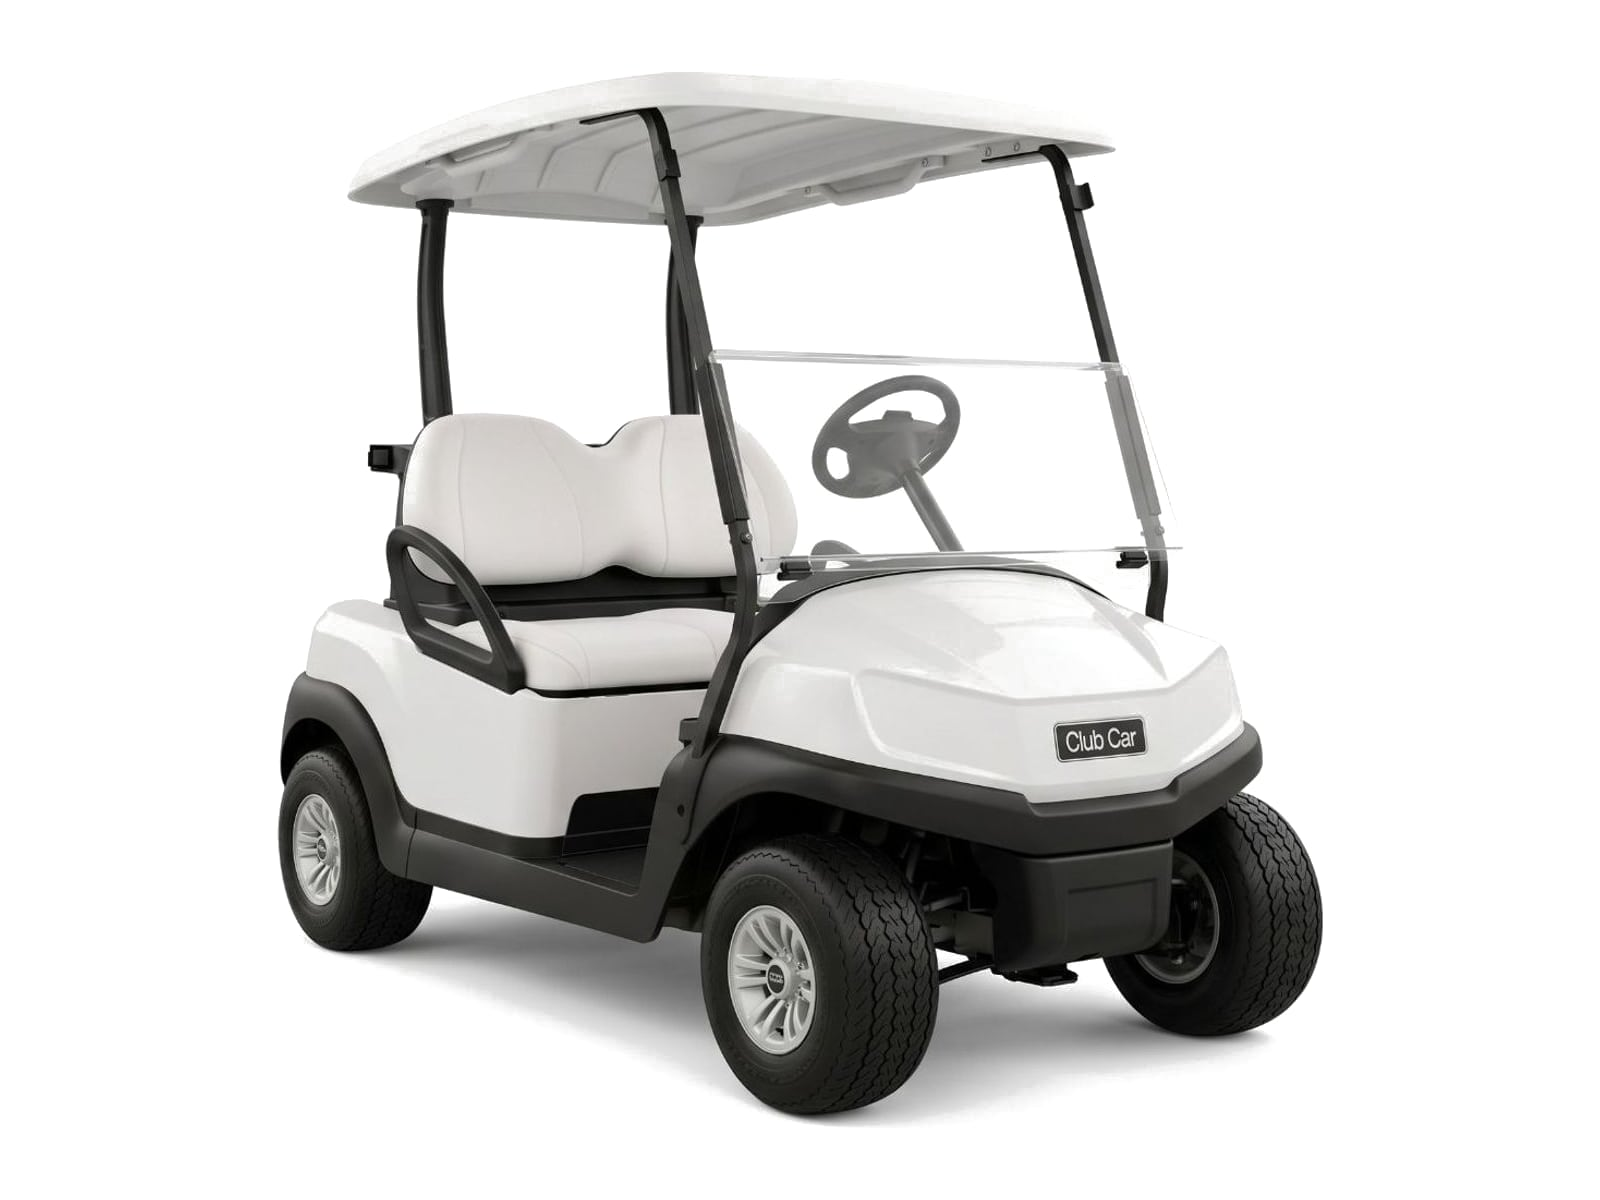
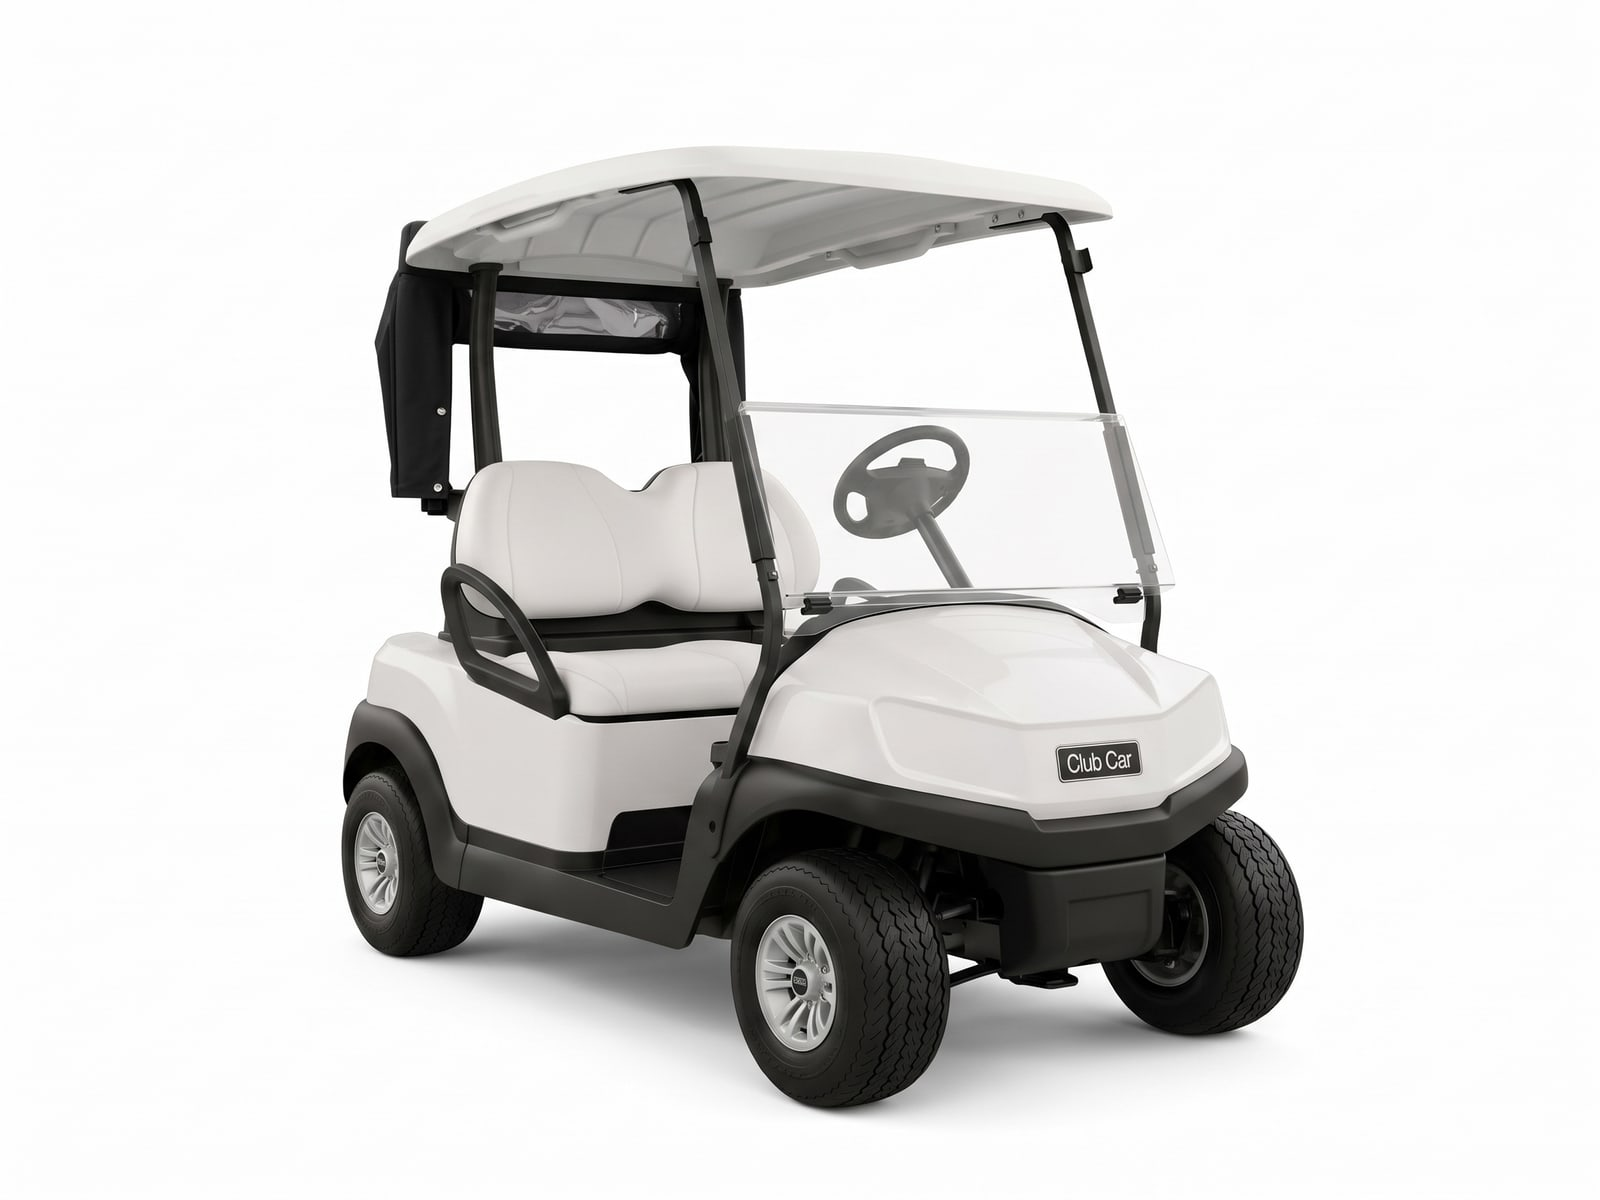
"Updating golfcarts showcase"

Changed region(s): [[0.1562, 0.0617, 0.8438, 0.9558], [0.375, 0.8325, 0.4062, 0.8633]]

diff --git a/app.js b/app.js
@@ -7143,7 +7143,8 @@ const SERVICE_LIST = SERVICE_GROUPS.flatMap(g => g.items);
 
 // The hero's white Tempo Base (Golfer 2 · Golfer build photo, with its depth map in image/depth) and the parts of it
 // we service, as points on the photo (% of its width and height). Each opens the service that looks after that part
-const SERVICE_STAGE_PHOTO = 'image/Products/builds/golfer-2-golfer.jpg';
+// The old Golfer photo stays here (2026-11-18): image/depth/golfer-2-golfer.jpg and the pings are drawn for it
+const SERVICE_STAGE_PHOTO = 'image/Products/builds/golfer-2-golfer-service.jpg';
 const SERVICE_PINGS = [
     { x: 51.3, y: 81.7, part: 'Wheels and tires', service: 'Mobile home service', photo: 'image/Service/wheel-service.jpg' },
     { x: 32.5, y: 65.6, part: 'Battery', service: 'Lithium battery conversion', photo: 'image/Service/lithium-install.jpg' },
